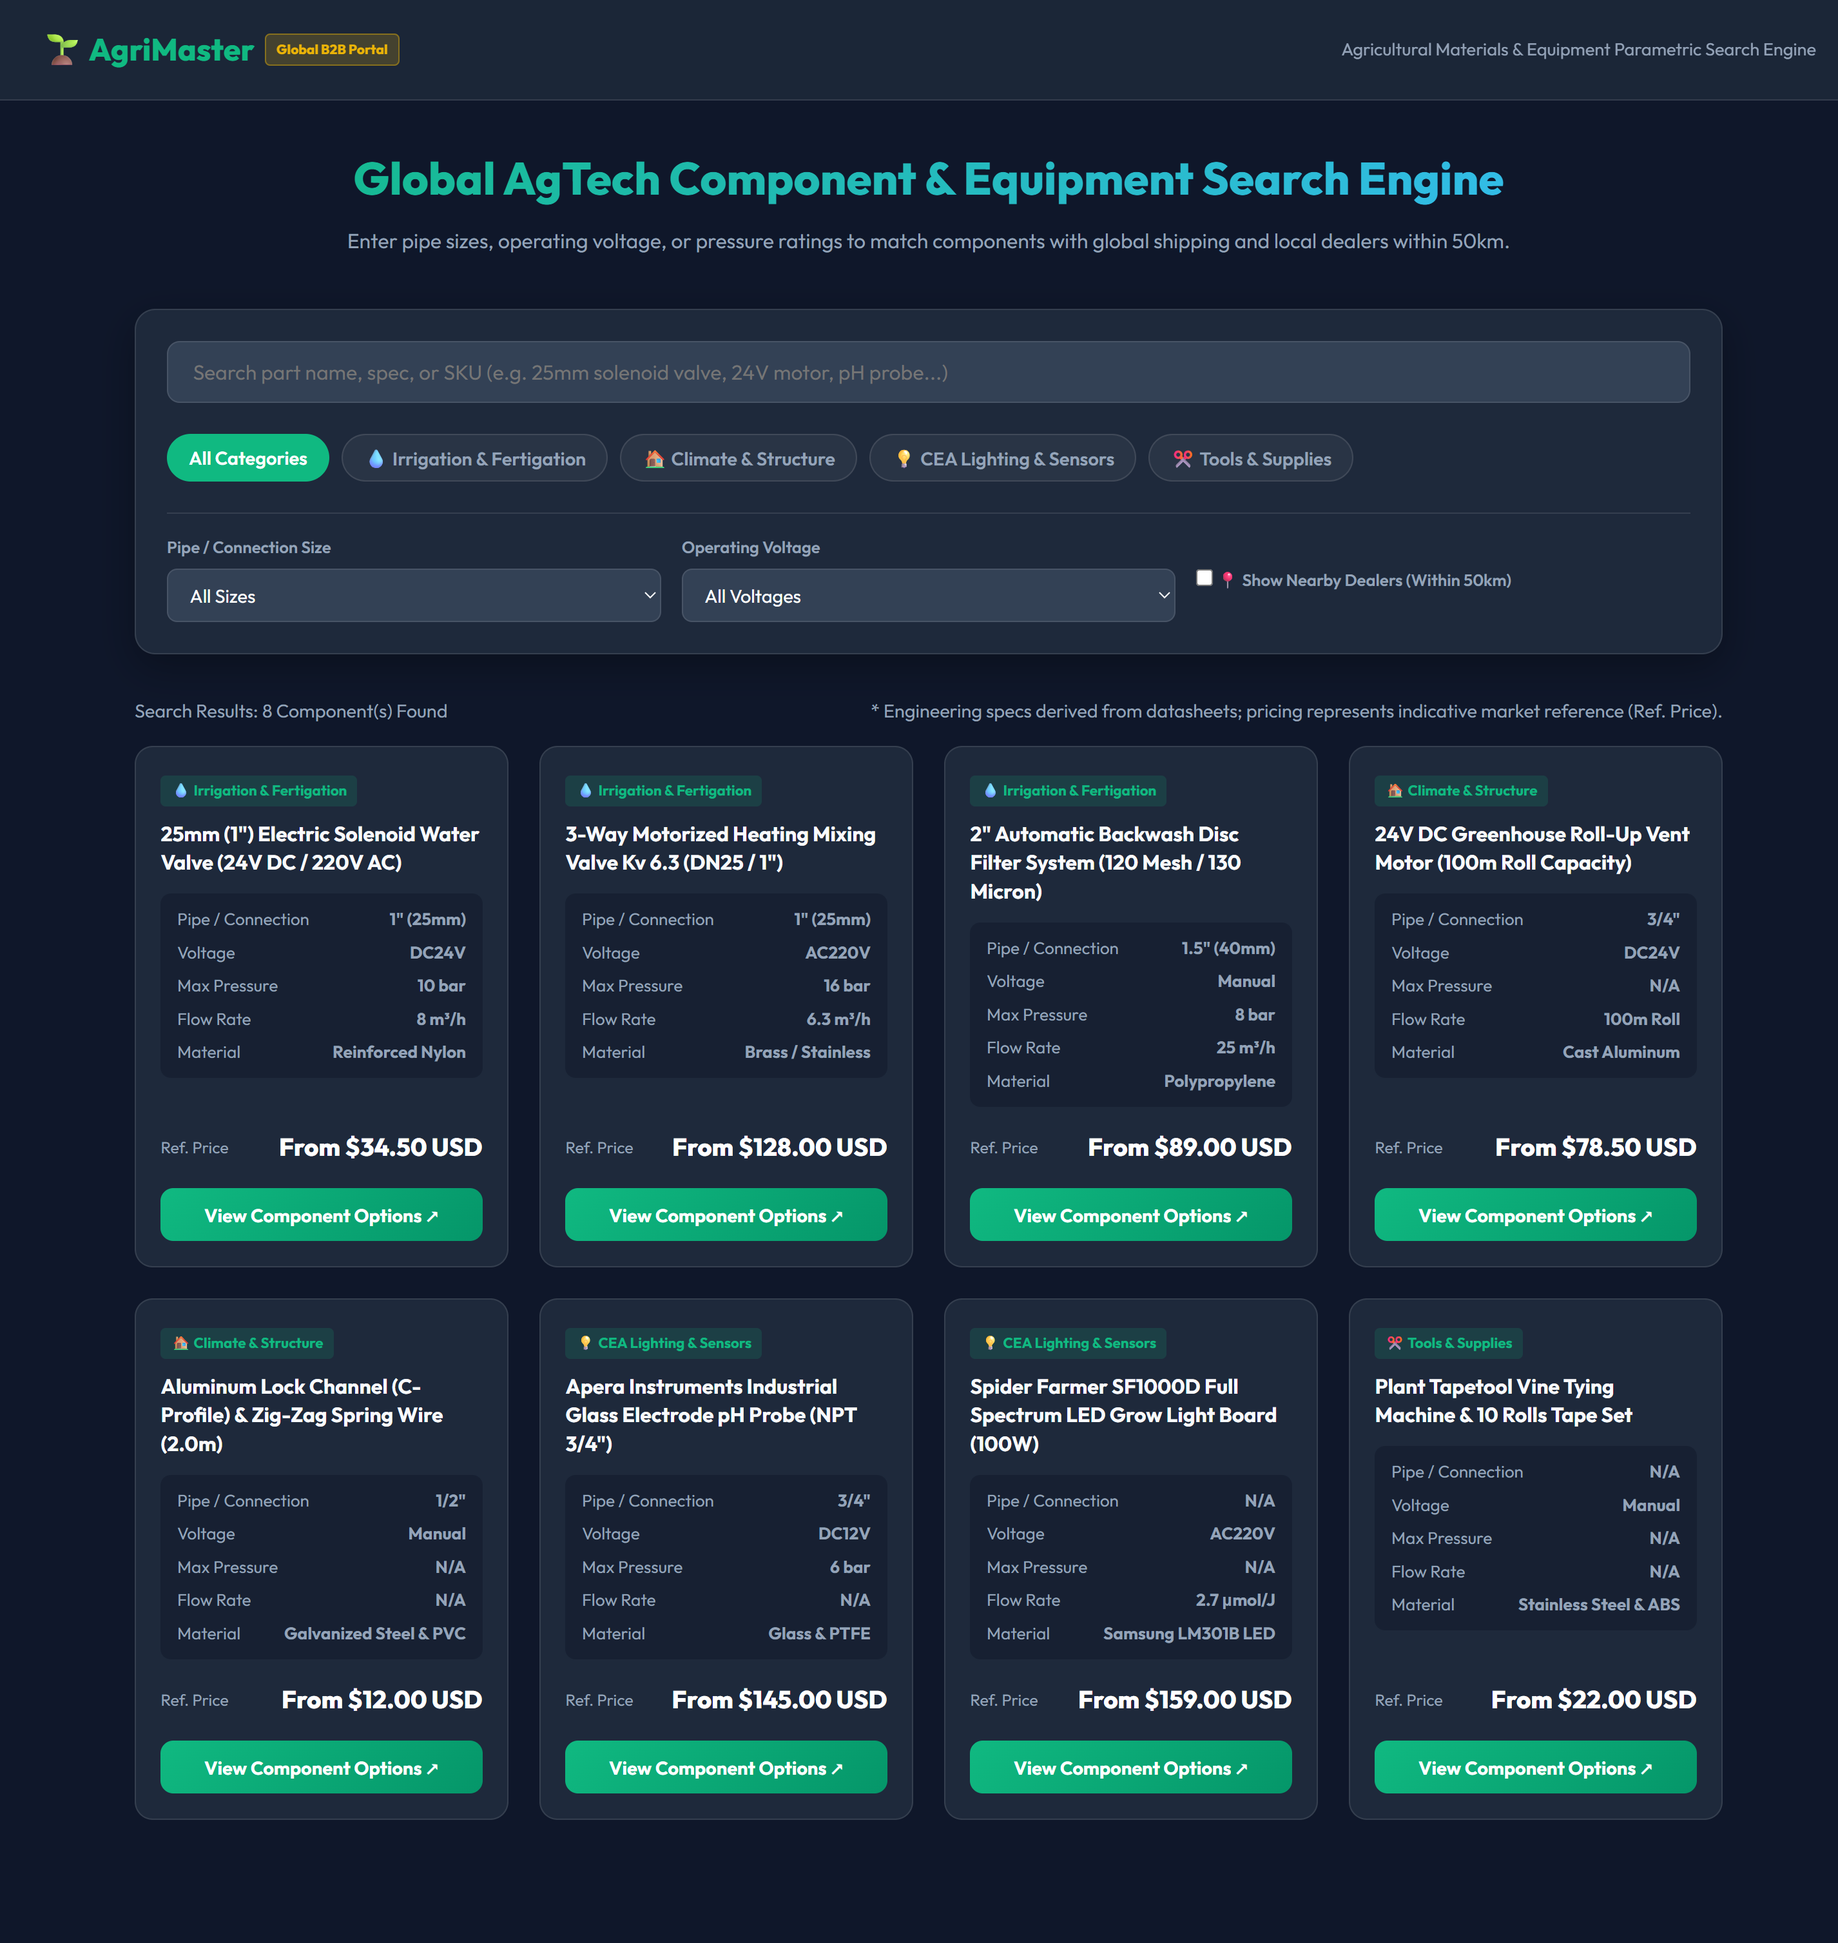
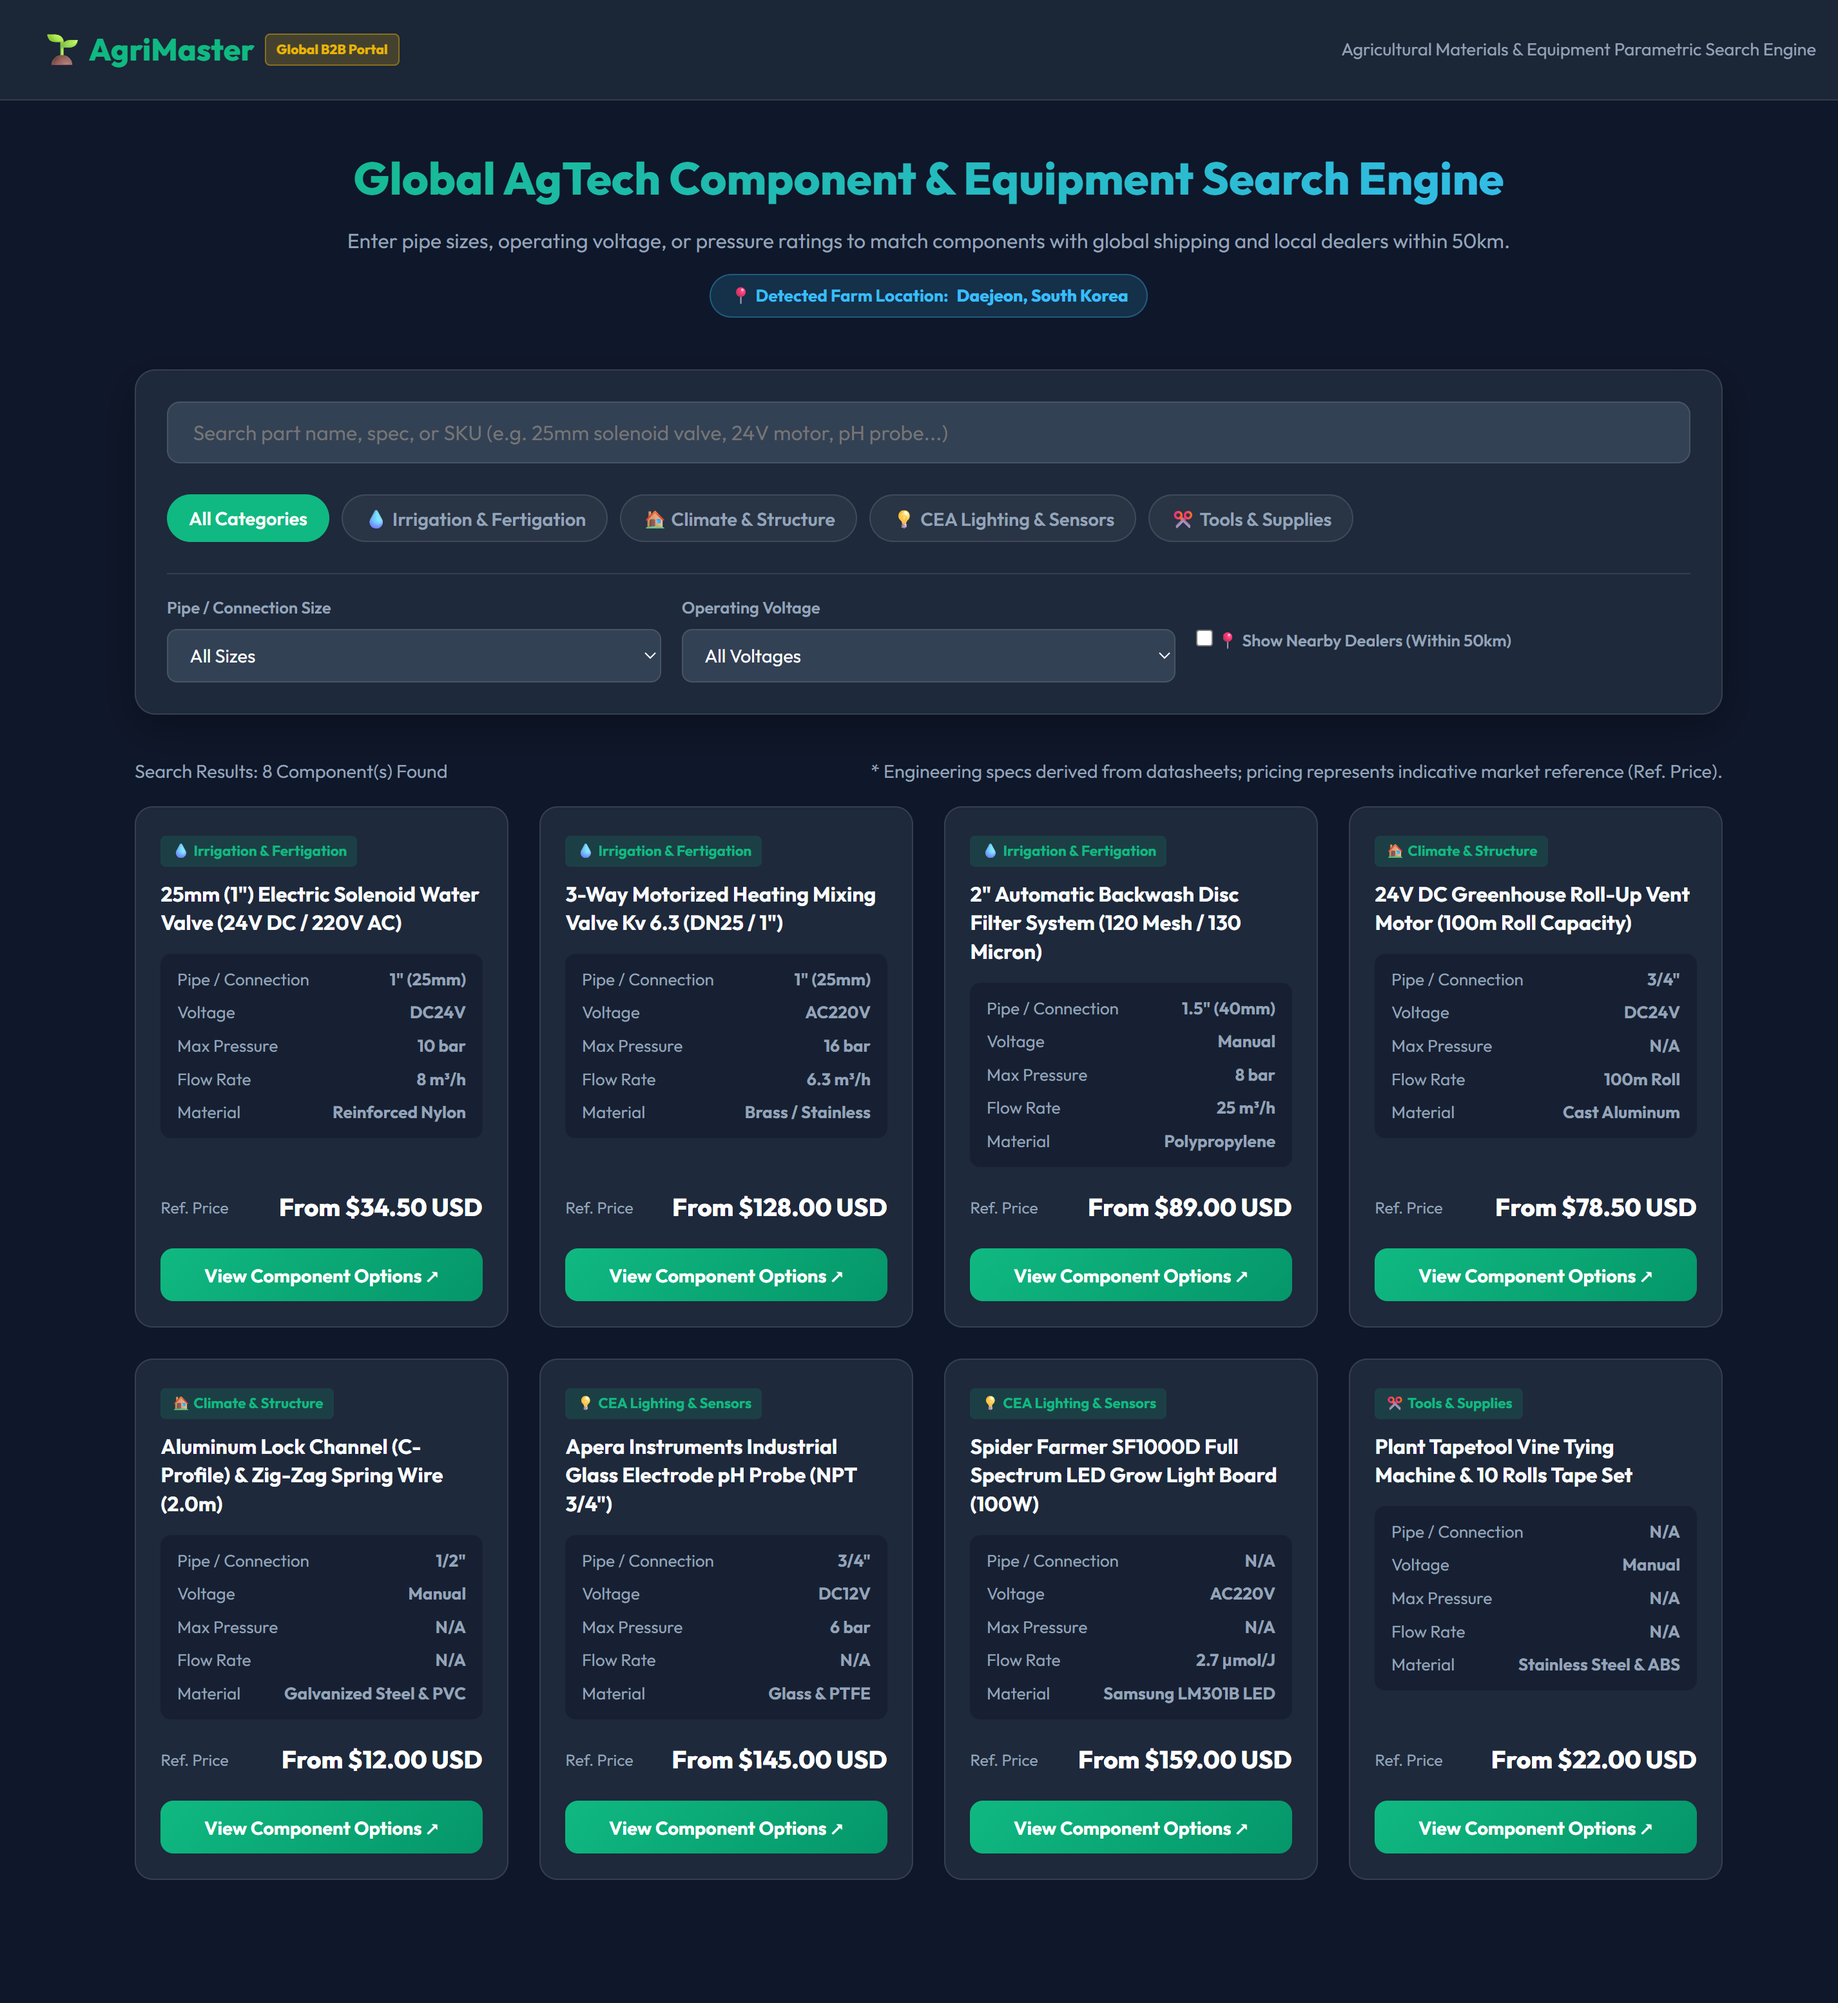
Refactor location detection to 100% dynamic worldwide timezone parsing

diff --git a/app.js b/app.js
@@ -145,23 +145,31 @@ function filterParts() {
 
 function detectUserCountry() {
     let country = "KR";
-    let locationName = "Daejeon, South Korea";
+    let locationName = "Global Region";
 
     try {
         const tz = Intl.DateTimeFormat().resolvedOptions().timeZone || "";
         const lang = navigator.language || "";
+
+        // 📍 전 세계 모든 도시/타임존 동적 파싱 (예: "Asia/Seoul" -> "Seoul (Asia)", "America/New_York" -> "New York (America)")
+        if (tz && tz.includes("/")) {
+            const parts = tz.split("/");
+            const continent = parts[0];
+            const city = parts[1].replace(/_/g, " ");
+            locationName = `${city} (${continent})`;
+        } else if (tz) {
+            locationName = tz;
+        } else if (lang) {
+            locationName = `Region (${lang})`;
+        }
+
+        // 🌐 매장 데이터 필터링용 국가 코드 매핑
         if (tz.includes("Seoul") || tz.includes("Korea") || lang.startsWith("ko")) {
             country = "KR";
-            locationName = "Daejeon, South Korea";
-        } else if (tz.includes("Prague") || tz.includes("Czech") || lang.startsWith("cs")) {
-            country = "CZ";
-            locationName = "Praha, Czech Republic";
         } else if (tz.includes("America") || tz.includes("US") || lang.startsWith("en-US")) {
             country = "US";
-            locationName = "Salt Lake City, UT, USA";
-        } else {
-            country = "KR";
-            locationName = "Detected Region (" + (tz || lang || "Global") + ")";
+        } else if (tz.includes("Europe") || lang.startsWith("cs") || lang.startsWith("de")) {
+            country = "CZ";
         }
     } catch (e) {
         console.error("Timezone detection error: ", e);
@@ -174,6 +182,7 @@ function detectUserCountry() {
 
     return country;
 }
+
 
 
 function renderInteractiveMap(userCountry, nearbyDealers) {
